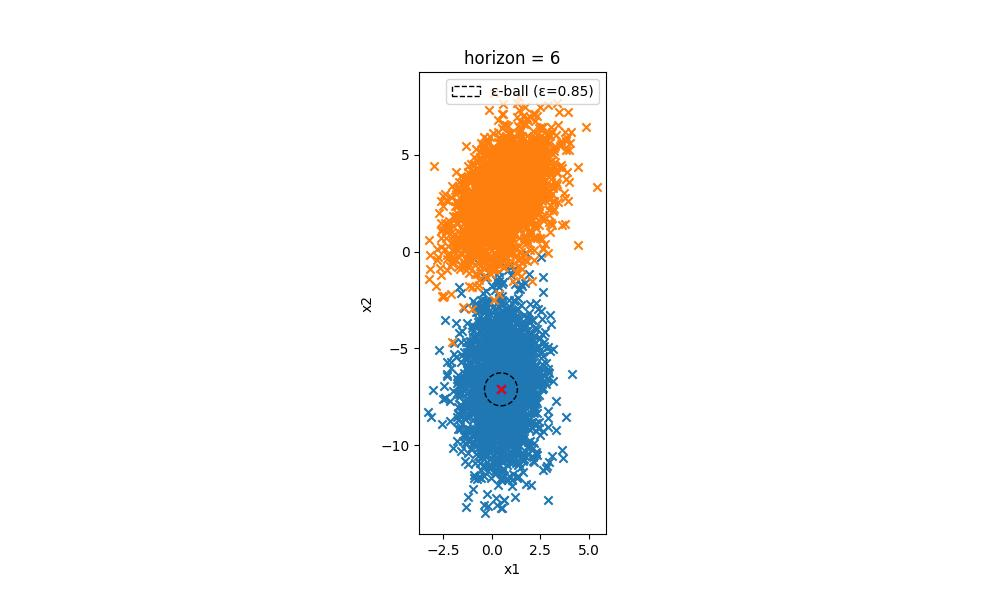
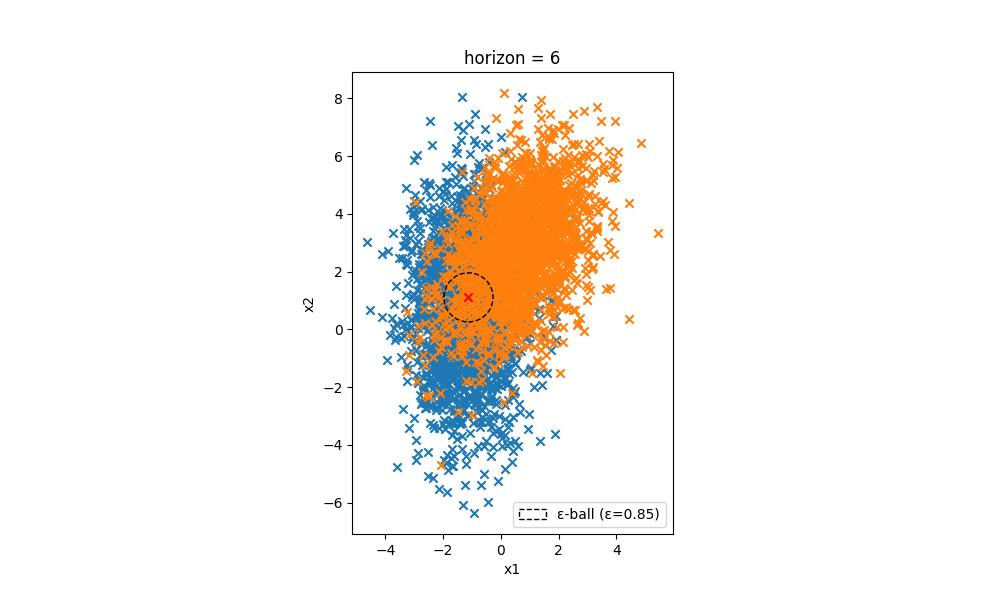
unknon

diff --git a/gp/gp_ucb.py b/gp/gp_ucb.py
@@ -282,7 +282,7 @@ for hor in T_list:
         x_f = x_f.reshape(-1)
         alpha = epsilon**2  + (traceSigma/delta) - 2*epsilon*math.sqrt(traceSigma/delta)
         k1 = GPy.kern.RBF(m)
-        U =  osample_u(CT, b, alpha, 50)
+        U =  osample_u(CT, b, alpha, 100)
         U = U.reshape(U.shape[0], -1)
 
         x_0 = x_f
@@ -369,7 +369,167 @@ plt.savefig('inorm-T-{}-{}_ss{}.jpeg'.format(epsilon, delta, j))
 
 
 
-
+#------------------------------------------------------------------------------------
+# everything unknown case
 
   
+class gphy:
+    def __init__(self, domain):
+        self.X = domain
+    
+    def initialize(self, k3):
+        pr_mean = np.zeros((len(self.X), 1))
+        pr_cov = k3.K(self.X, self.X)
+        return(pr_mean, pr_cov)
+        
+    
+    def sample(self, mean, cov):
+        beta = 0.5
+        var = np.diag(cov).reshape(-1, 1)
+        score = -1*mean + (beta**0.5 * var)
+        max_indices = np.where(score == score.max())[0]
+        i = np.random.choice(max_indices)
+        x = self.X[i]
+        return(x, i)
 
+    def cost(self, Q, x, T):
+        Q_tilde = block_diag(*([Q] * T))
+        x = x.reshape(-1,1)
+        c = np.transpose(x) @ Q_tilde @ x
+        w = np.random.normal()
+        y = c + w
+        return(y.flatten())
+    
+    def str(self, xk, xn, x_f, y):
+        gamma = 0.8
+        l = 0.5
+        const = np.linalg.norm(x_f - x_0)
+        ratio = (gamma * np.linalg.norm(xn- xk)+ np.linalg.norm(x_f - xn))/const
+        final = y + l* ratio
+        return(final)
+
+    def updation(self, Y_obs, X_obs):
+            mean =  k3.K(self.X, X_obs) @ np.linalg.inv(k3.K(X_obs, X_obs) + 1*np.eye(X_obs.shape[0])) @ Y_obs
+            cov = k3.K(self.X, self.X) - k3.K(self.X, X_obs) @ np.linalg.inv(k3.K(X_obs, X_obs) + 1*np.eye(X_obs.shape[0])) @ k3.K(X_obs, self.X)
+            return(mean, cov)
+
+
+
+
+#system parameters
+n,m = 2,2
+x_0 = np.array([0.0, 0.0])
+
+T_list  = range(1, 20)
+# sigma_0 = np.eye(n) *0.1
+Q = np.diag([2.0, 3.0])
+name = 'stable'
+# epsilon = 0.85
+# delta = 0.9
+# delta_folder = 'traj_{}'.format(delta)
+folder = 'traj_un'
+# idelta_folder = 'traj_{}'.format(delta)
+# os.makedirs(delta_folder, exist_ok = True)
+
+
+# j = 1000
+for T in T_list:
+    A, B, CT = get_system(name, n, m, T,  seed=0)
+    dev = []
+    norm = []  
+    u = np.random.randn(m*T, 1)
+    # CT = B
+    # for i in range(1, T):
+    #     CT = np.hstack((CT, np.linalg.matrix_power(A, i) @ B)) 
+
+    x_f = np.linalg.matrix_power(A, T) @ x_0.reshape(-1, 1) + CT @ u
+    x_f =  x_f.reshape(-1)
+
+    N_T = np.eye(n)
+
+    for i in range(1, T):
+        N_T = np.hstack((N_T, np.linalg.matrix_power(A, i)))
+
+        
+    # sigma_w = np.eye(n*T) * 0.1
+    # sigma_z = np.linalg.matrix_power(A, T) @ sigma_0 @ np.linalg.matrix_power(A, T).T + N_T @ sigma_w @ N_T.T
+    # traceSigma = np.trace(sigma_z)
+  
+    # b = np.linalg.matrix_power(A, T)@x_0 - x_f
+    # alpha = epsilon**2  + (traceSigma/delta) - 2*epsilon*math.sqrt(traceSigma/delta)
+    k3 = GPy.kern.RBF(m)
+    U = np.random.randn(m, 100)
+    U = U.reshape(U.shape[0], -1)
+    # X =  sample_u(CT, b, alpha, j) # set of inputs from constraint (only change)
+    
+    algo = gphy(U)
+  
+    indices = []
+    final_u = []
+    mean, cov = algo.initialize(k3)
+    s = []
+    xk = x_0
+    for k in range(0, T):
+        X_obs = []
+        Y_obs = []
+        for t in range(0,10):
+            x, i = algo.sample(mean, cov)
+            X_obs.append(x)
+            wk = np.random.normal(n)
+            xn = A @xk + B @ x + wk
+            y = algo.cost(Q, x, T)
+            indices.append(i)
+            fy = algo.str(xk, xn, x_f, y)
+            Y_obs.append(fy)
+            mean, cov = algo.updation(np.array(Y_obs), np.array(X_obs))
+        index = indices[-1] 
+        final_u.append(X_obs[-1])  
+        wk = np.random.normal(n)
+        xk = A @ x_0 + B @ X_obs[-1] + wk 
+        x_0 = xk
+    final_u = [x.tolist() for x in final_u]    
+
+    #record metrics----------------------------------------
+    deviation = 0
+    sim = 2000
+    for t in range(0, sim):
+        w = np.random.normal(size = n*T)
+        xT = np.linalg.matrix_power(A, T)@ x_0 + CT @ final_u[::-1] + N_T @ w
+        s.append(xT)
+        deviation = deviation + np.linalg.norm(x_f - xT)
+    deviation = deviation /sim       
+    dev.append(deviation)
+    norm.append(np.linalg.norm(X[index]))
+    s = np.array(s)
+    filename4 = os.path.join(folder, 'ufstate.jpeg')
+    plt.figure(figsize = (10,6))
+    plt.scatter(s[:, 0], s[:, 1], marker = 'x')
+    plt.scatter(x_f[0], x_f[1], marker = 'x', color = 'red')
+   
+    plt.gca().set_aspect('equal', adjustable='box')
+    circle = patches.Circle((x_f[0], x_f[1]), epsilon, 
+                        fill=False, linestyle='--', color='k', label=f'ε-ball (ε={epsilon})')
+    plt.gca().add_patch(circle)
+    plt.xlabel('x1')
+    plt.ylabel('x2')
+    plt.title('horizon = {}'.format(T))
+    plt.legend()
+    plt.savefig(filename2)
+    
+N = np.arange(0, len(dev))
+plt.figure(figsize = (10,6))
+plt.plot(N, dev, label = 'offline')
+plt.xlabel('time horizon')
+plt.ylabel('state dev')
+plt.title('avg state deviation')
+plt.legend()
+plt.savefig('udev-T.jpeg')
+
+
+plt.figure(figsize = (10,6))
+plt.plot(N, norm, label = 'offline')
+plt.xlabel('time horizon')
+plt.ylabel('u* norm')
+plt.legend()
+plt.savefig('unorm-T.jpeg')
+    
